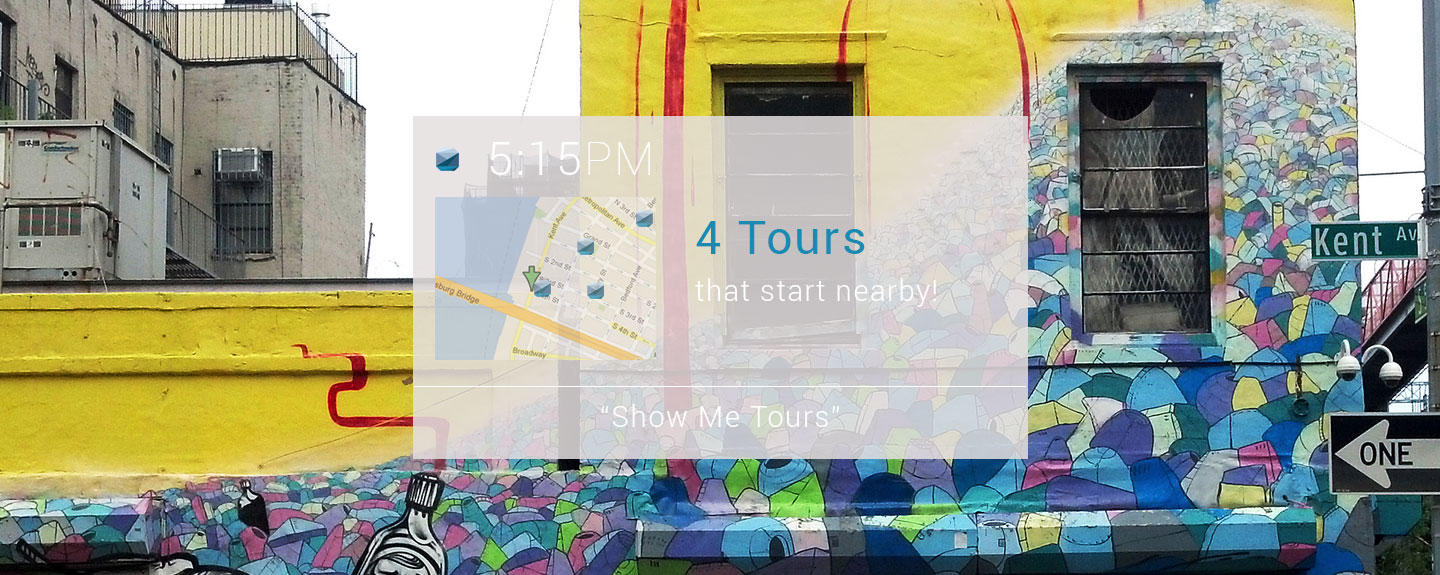
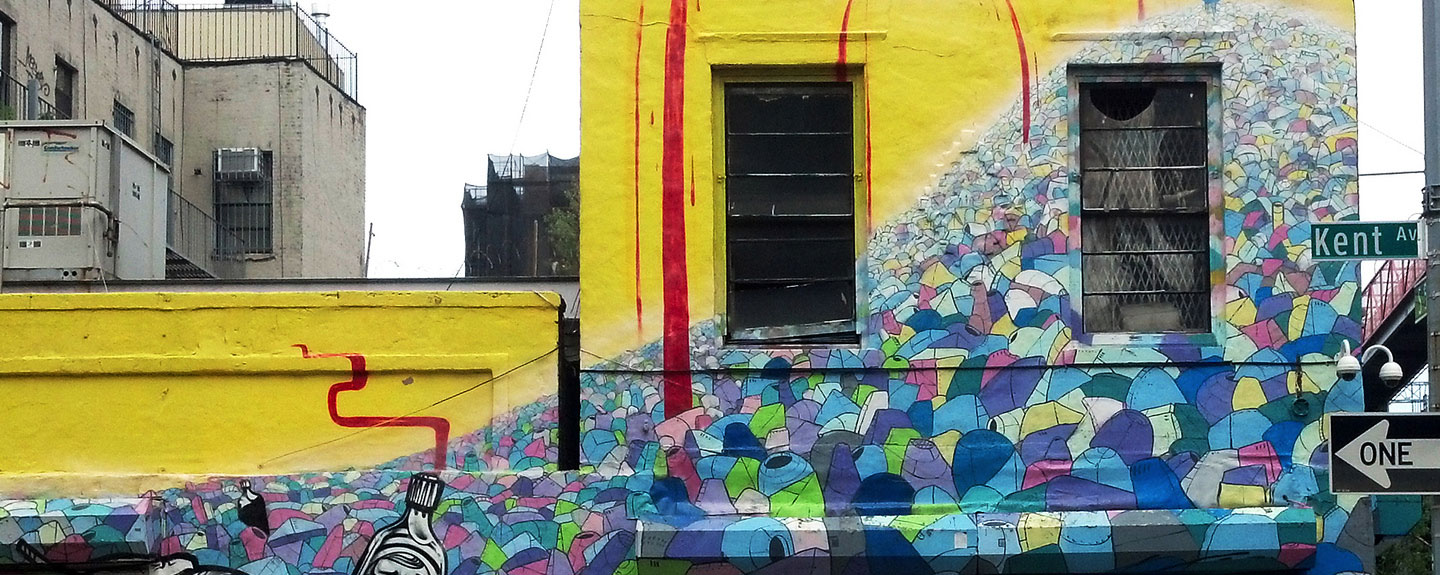
small fix

Changed region(s): [[0.2812, 0.1774, 0.7188, 0.7983]]

diff --git a/app/assets/stylesheets/home.css.scss b/app/assets/stylesheets/home.css.scss
@@ -160,14 +160,41 @@ body{
 }
 
 .section_interface{
-  background:image-url('interfaces/everyday_interface.png') top left no-repeat;
+  background:white;
   position:absolute;
-  top:20px;
+  top:115px;
   left:50%;
-  margin-left:-300px;
-  width:625px;
-  height:350px;
-  background-size:cover;
+  width:42%;
+  height:60%;
+  margin-left:-306px;
+  //opacity: .85; /* layer alpha */
+  //background-color: #e4dede; 
+  background: image-url('marketplace/bg.png') top left no-repeat;
+
+  div{
+    width:100%;
+    height:100%;
+    background-size:100% 100%;
+  }
+}
+
+.marketplace_0{
+  background: image-url('marketplace/001.png') top left no-repeat;
+}
+
+.marketplace_1{
+  background: image-url('marketplace/002.png') top left no-repeat;
+
+}
+
+.marketplace_2{
+  background: image-url('marketplace/003.png') top left no-repeat;
+
+}
+
+.marketplace_3{
+  background: image-url('marketplace/004.png') top left no-repeat;
+
 }
 
 #final_message{
